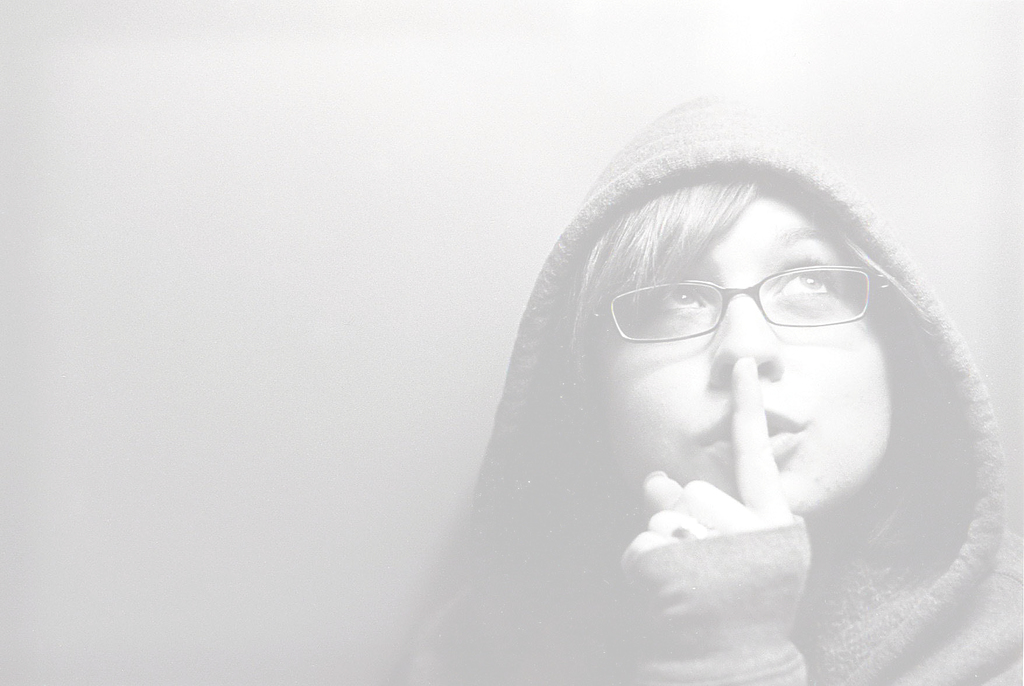
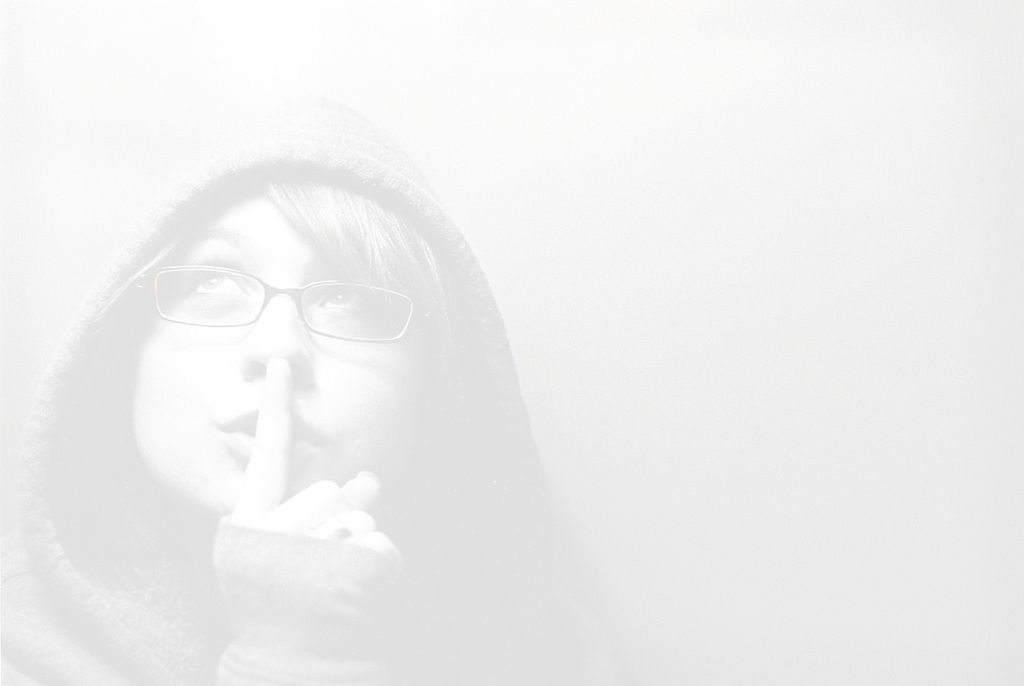
tweak background image

diff --git a/src/index.css b/src/index.css
@@ -5,5 +5,15 @@ textarea[readonly] {
 body {
     background-image:url('talk_shows_on_mute_by_katie_tegtmeyer-whitened.jpg');
     background-size: cover;
+    background-repeat: no-repeat;
+    background-attachment: fixed;
 }
+
+
+/* https://github.com/twitter/bootstrap/issues/4117 */
+/*@media (max-width: 979px)
+.navbar-fixed-bottom {
+  margin-top: 18px;
+  position: fixed;
+}*/
 
